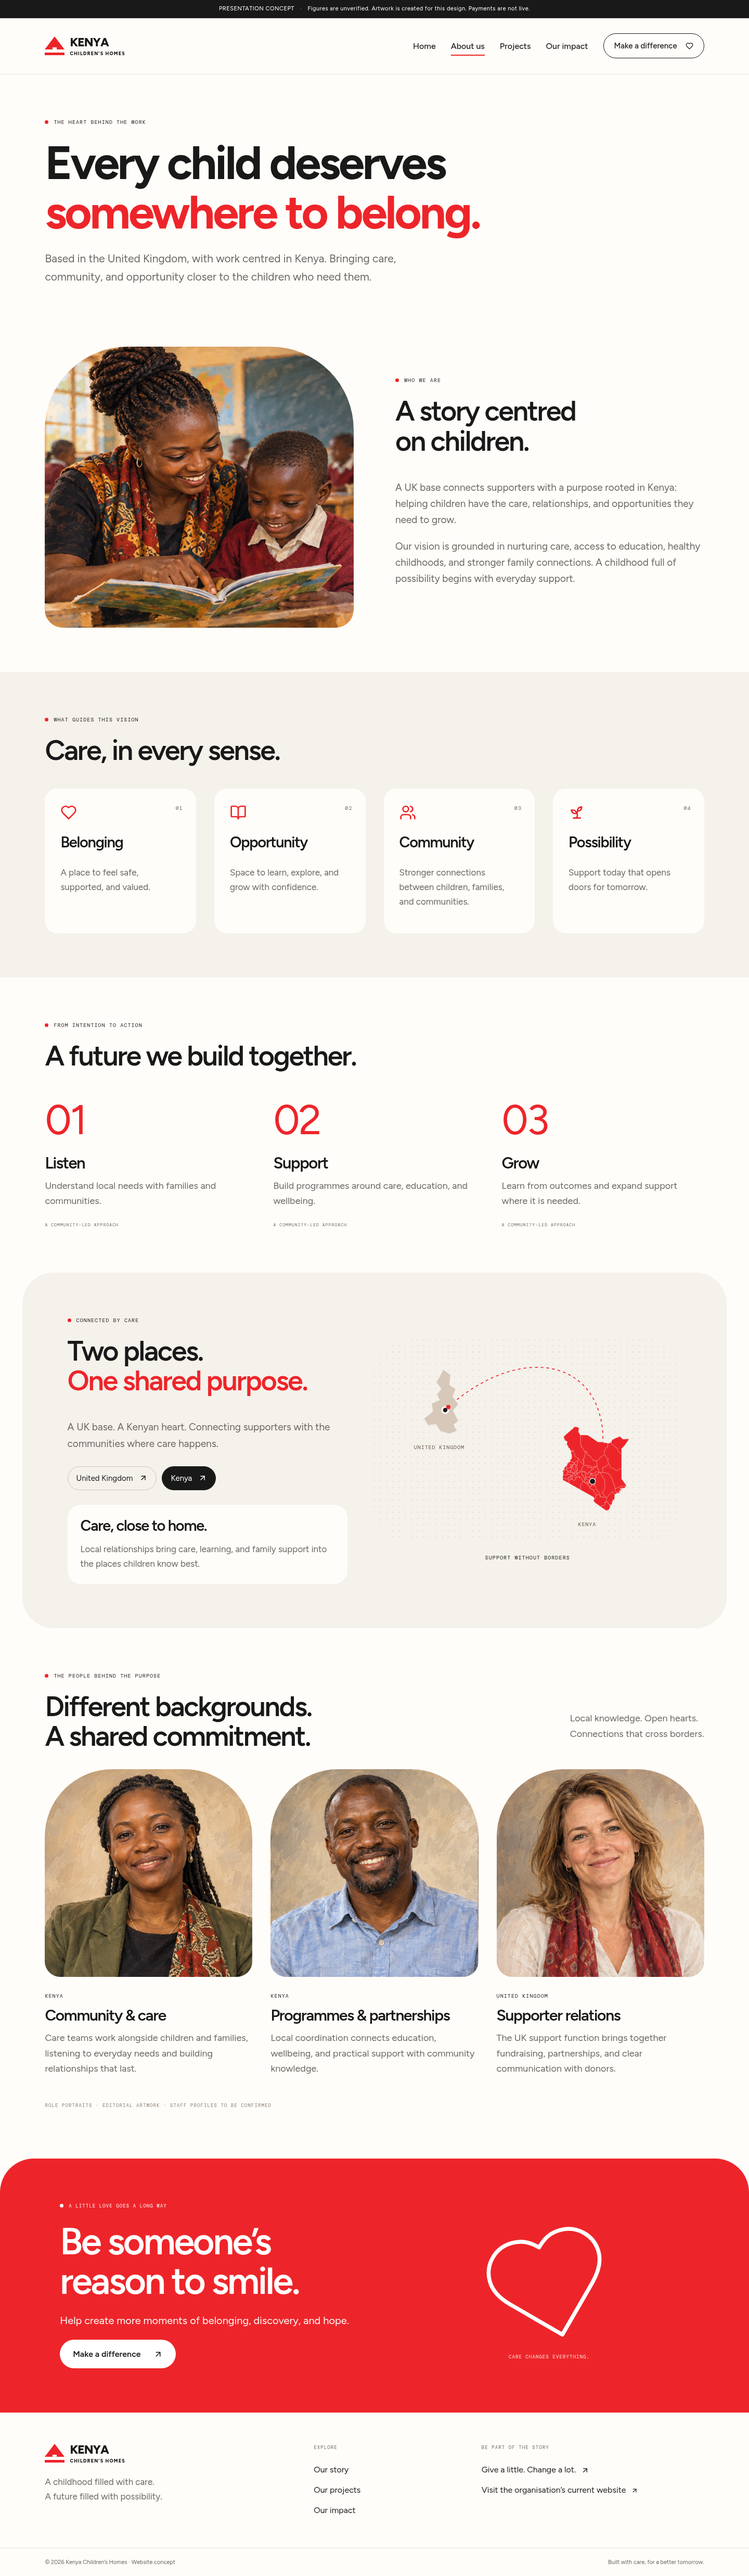
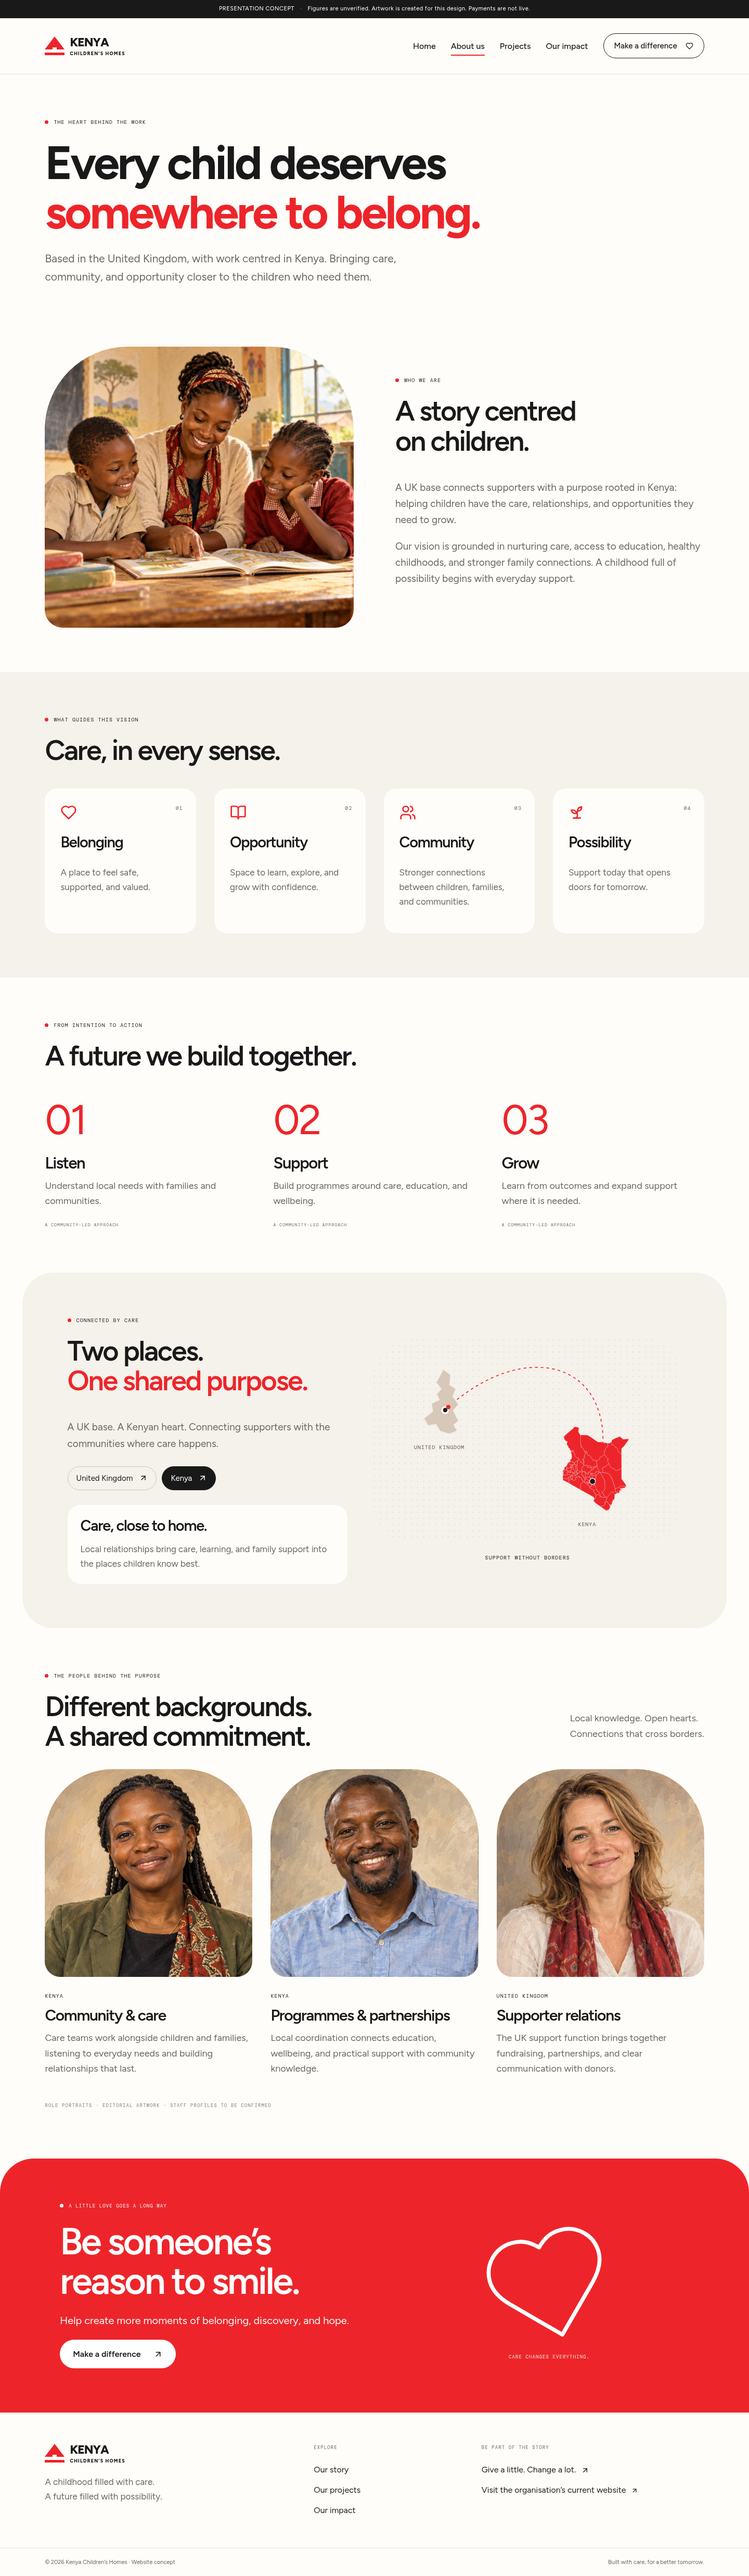
Refresh child and caregiver imagery with proportional image fitting

Changed region(s): [[0.0625, 0.1245, 0.4688, 0.2489]]

diff --git a/tests/site.spec.js b/tests/site.spec.js
@@ -9,16 +9,23 @@ test("five pages render, photos and fonts load, and routes support browser histo
     await expect(page.locator("h1")).toBeVisible();
     await page.evaluate(() => document.fonts.ready);
     await expect(page.locator(".editorial-art").first()).toBeVisible();
-    expect((await page.request.get("/images/kenya-stories.png")).status()).toBe(
-      200,
-    );
+    await expect
+      .poll(() =>
+        page
+          .locator(".single-scene img")
+          .evaluateAll(
+            (images) =>
+              images.length > 0 &&
+              images.every((img) => img.complete && img.naturalWidth > 0),
+          ),
+      )
+      .toBe(true);
     expect(
-      await page.evaluate(async () => {
-        const img = new Image();
-        img.src = "/images/kenya-stories.png";
-        await img.decode();
-        return img.naturalWidth > 1000;
-      }),
+      await page
+        .locator(".single-scene img")
+        .evaluateAll((images) =>
+          images.every((img) => getComputedStyle(img).objectFit === "cover"),
+        ),
     ).toBe(true);
     expect(
       await page.evaluate(
@@ -181,4 +188,43 @@ test("about has a UK–Kenya connection map and role-based team portraits", asyn
   await expect(page.locator(".connection-detail h3")).toContainText(
     "A community of supporters",
   );
+});
+
+test("care images crop naturally and team portraits keep their original artwork", async ({
+  page,
+}) => {
+  for (const width of [375, 1440]) {
+    await page.setViewportSize({ width, height: 1000 });
+    await page.goto("/");
+    await expect(page.locator(".main-cutout img")).toHaveAttribute(
+      "src",
+      "/images/children-care.png",
+    );
+    await expect(page.locator(".small-cutout img")).toHaveAttribute(
+      "src",
+      "/images/learning-care.png",
+    );
+    expect(
+      await page
+        .locator(".photo-number.single-scene-number")
+        .evaluateAll(
+          (nodes) =>
+            nodes.length > 0 &&
+            nodes.every(
+              (node) => getComputedStyle(node).backgroundSize === "cover",
+            ),
+        ),
+    ).toBe(true);
+  }
+  await page.goto("/about");
+  await expect(page.locator(".team-grid .single-scene")).toHaveCount(0);
+  expect(
+    await page
+      .locator(".team-grid .editorial-art")
+      .evaluateAll((nodes) =>
+        nodes.every((node) =>
+          getComputedStyle(node).backgroundImage.includes("kenya-stories.png"),
+        ),
+      ),
+  ).toBe(true);
 });

diff --git a/src/DesignSections.jsx b/src/DesignSections.jsx
@@ -23,21 +23,57 @@ import {
   nextAction,
 } from "./data";
 const artwork = "/images/kenya-stories.png";
+const careScenes = {
+  children: {
+    src: "/images/children-care.png",
+    position: "50% 42%",
+    label: "Kenyan child and a caring adult sharing a joyful moment",
+  },
+  learning: {
+    src: "/images/learning-care.png",
+    position: "50% 45%",
+    label: "Kenyan children reading with a caring educator",
+  },
+  landscape: {
+    src: "/images/community-care.png",
+    position: "50% 48%",
+    label: "Children and caregivers enjoying a Kenyan community courtyard",
+  },
+};
 export function Art({ scene = "children", className = "", label }) {
+  const image = careScenes[scene];
   return (
     <div
       role="img"
-      aria-label={label || `Editorial artwork: ${scene}`}
-      className={`editorial-art art-${scene} ${className}`}
-      style={{ backgroundImage: `url(${artwork})` }}
-    />
+      aria-label={
+        label ||
+        (image
+          ? `Editorial artwork: ${image.label}`
+          : `Editorial artwork: ${scene}`)
+      }
+      className={`editorial-art art-${scene} ${image ? "single-scene" : ""} ${className}`}
+      style={image ? undefined : { backgroundImage: `url(${artwork})` }}
+    >
+      {image && (
+        <img
+          src={image.src}
+          alt=""
+          aria-hidden="true"
+          style={{ objectPosition: image.position }}
+        />
+      )}
+    </div>
   );
 }
 export function PhotoNumber({ number, scene = "children" }) {
+  const image = careScenes[scene];
   return (
     <span
-      className={`photo-number art-${scene}`}
-      style={{ backgroundImage: `url(${artwork})` }}
+      className={`photo-number art-${scene} ${image ? "single-scene-number" : ""}`}
+      style={{
+        backgroundImage: `url(${image?.src || artwork})`,
+        ...(image ? { backgroundPosition: image.position } : {}),
+      }}
       aria-hidden="true"
     >
       {number}

diff --git a/src/refined.css b/src/refined.css
@@ -1660,3 +1660,70 @@ nav {
 .map-tooltip p:last-child {
   margin-bottom: 0;
 }
+
+/* Individual care scenes retain intrinsic proportions; crop rather than stretch. */
+.editorial-art.single-scene {
+  background-image: none;
+  overflow: hidden;
+}
+.editorial-art.single-scene > img {
+  display: block;
+  width: 100%;
+  height: 100%;
+  object-fit: cover;
+  object-position: 50% 45%;
+}
+.photo-number.single-scene-number {
+  background-size: cover;
+  background-repeat: no-repeat;
+}
+/* Give the classroom scene a landscape frame so all three faces fit naturally. */
+.small-cutout {
+  width: 230px;
+  height: 180px;
+  left: -20px;
+  top: 295px;
+  border-radius: 85px;
+}
+.small-cutout > .editorial-art {
+  transform: rotate(12deg) scale(1.12);
+}
+@media (max-width: 1100px) {
+  .small-cutout {
+    width: 205px;
+    height: 165px;
+    left: -15px;
+    top: 285px;
+  }
+}
+@media (max-width: 760px) {
+  .main-cutout {
+    left: 65px;
+    width: 260px;
+    height: 330px;
+  }
+  .small-cutout {
+    left: 0;
+    width: 190px;
+    height: 145px;
+    top: 240px;
+  }
+}
+@media (max-width: 380px) {
+  .main-cutout {
+    left: 65px;
+    width: 235px;
+    height: 300px;
+  }
+  .small-cutout {
+    left: 0;
+    width: 180px;
+    height: 140px;
+    top: 230px;
+  }
+}
+/* Keep the full face composition instead of zooming inside the tilted masks. */
+.main-cutout > .editorial-art,
+.small-cutout > .editorial-art {
+  transform: none;
+}

diff --git a/src/main.jsx b/src/main.jsx
@@ -359,13 +359,13 @@ function Home() {
           <div className="image-cutout main-cutout">
             <Art
               scene="children"
-              label="Editorial artwork of Kenyan schoolchildren outdoors"
+              label="Editorial artwork of a Kenyan child and a caring adult"
             />
           </div>
           <div className="image-cutout small-cutout">
             <Art
               scene="learning"
-              label="Editorial artwork of a Kenyan educator reading with a child"
+              label="Editorial artwork of Kenyan children reading with an educator"
             />
           </div>
           <span className="hero-star">✦</span>

diff --git a/README.md b/README.md
@@ -43,7 +43,7 @@ Browser tests use `/usr/bin/chromium` in this cloud environment. Set `CHROMIUM_P
 
 ## Asset sources
 
-- `public/images/kenya-stories.png`: AI-created editorial artwork for this concept, with six scenes representing Kenyan childhood, learning, landscape, two Kenyan team roles, and a UK support role. It does not depict actual beneficiaries or staff. Source photo downloads remain blocked in this environment; approved real photographs remain a pre-publication requirement.
+- `public/images/kenya-stories.png`: AI-created editorial artwork for this concept, with six scenes, now used for the original team-role portraits. The children, educator, and outdoor-care scenes have been replaced by individual artwork files (`children-care.png`, `learning-care.png`, and `community-care.png`). These show happy Kenyan children with nurturing adults. Individual scenes use `object-fit: cover` and controlled focal points; numerical overlays use proportional background cover sizing. It does not depict actual beneficiaries or staff. Source photo downloads remain blocked in this environment; approved real photographs remain a pre-publication requirement.
 
 - County geometry: `@svg-maps/kenya` 2.0.0, SVG Maps / Mihai Ro, [CC BY 4.0](https://creativecommons.org/licenses/by/4.0/), https://github.com/VictorCazanave/svg-maps/tree/master/packages/kenya. Styling and interactions are adapted here.
 - Original-design photos, retained but unused in this revision: MDN learning-area `elva-800w.jpg` and `elva-fairy-800w.jpg`, https://github.com/mdn/learning-area/tree/main/html/multimedia-and-embedding/responsive-images. Repository license: CC0 1.0. These are general design placeholders and do not depict the organisation’s work. Replace with approved Kenyan programme photography before launch.
